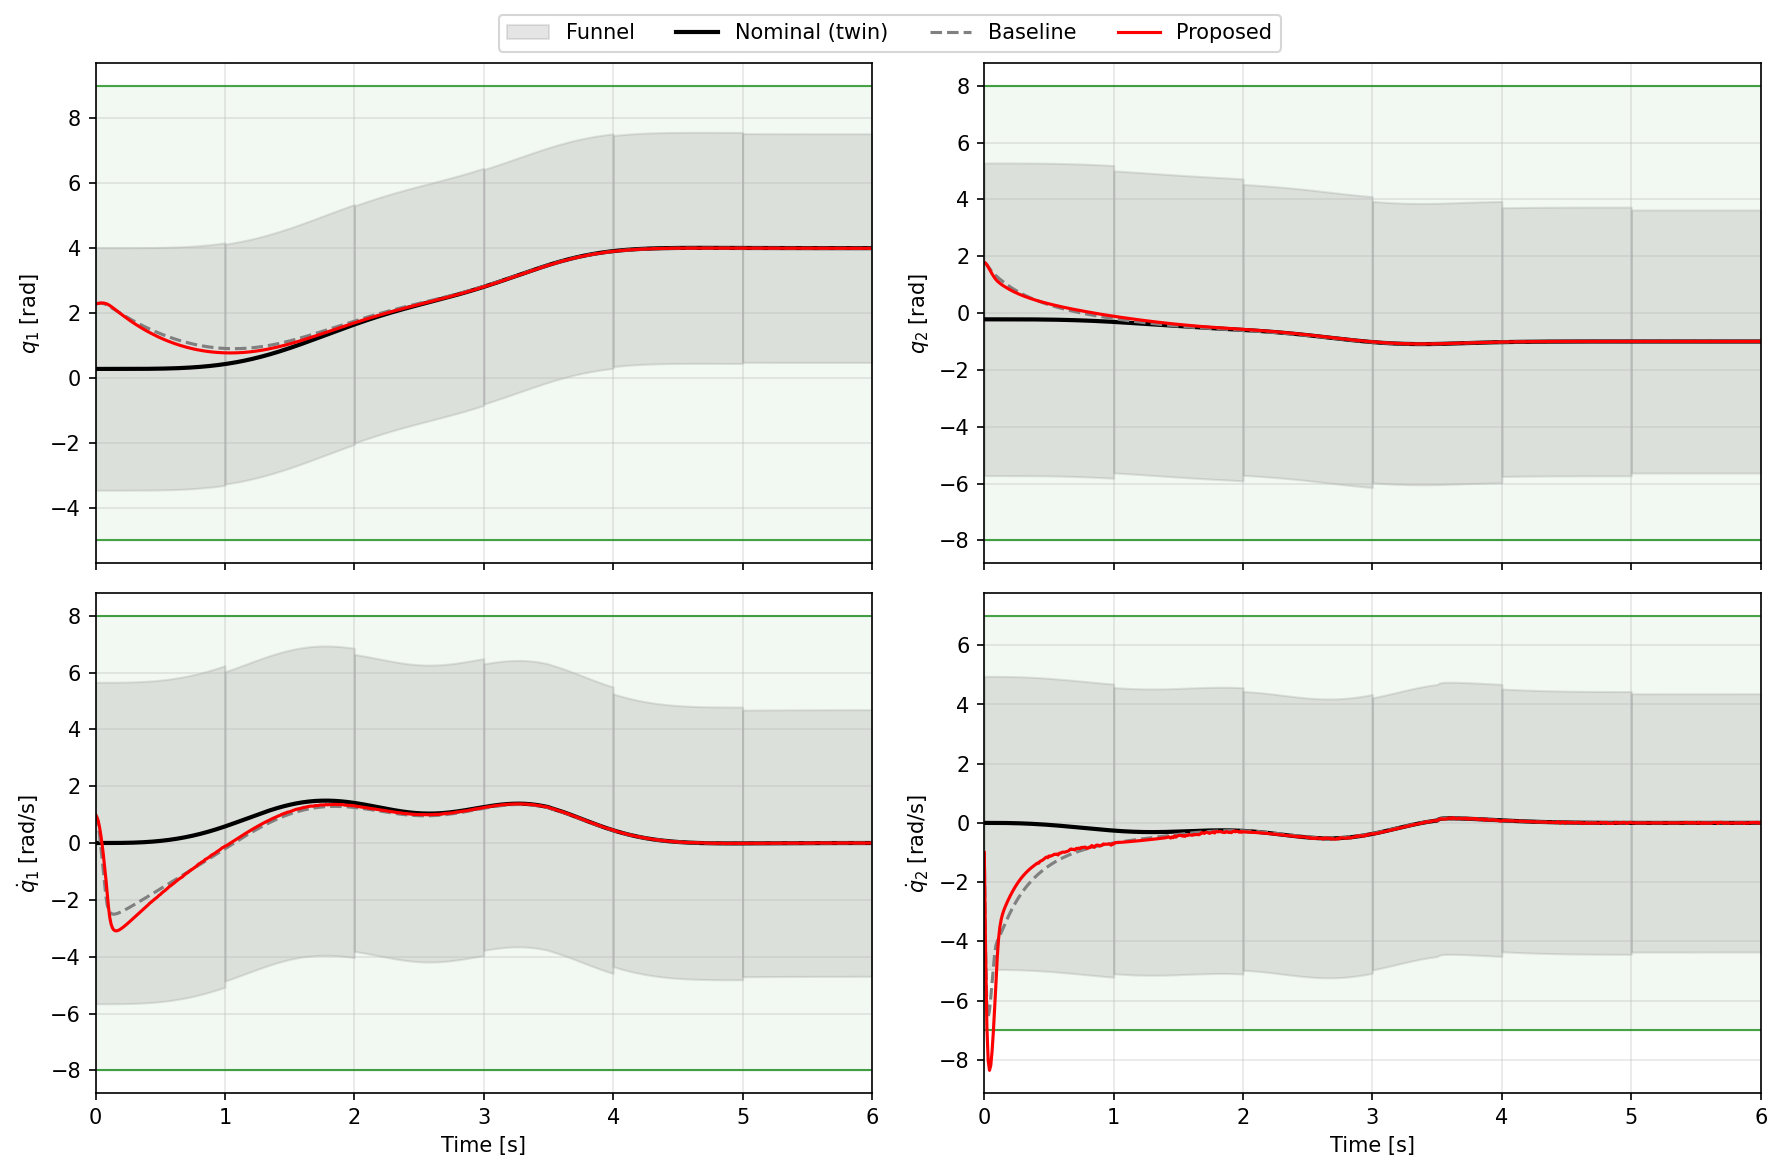
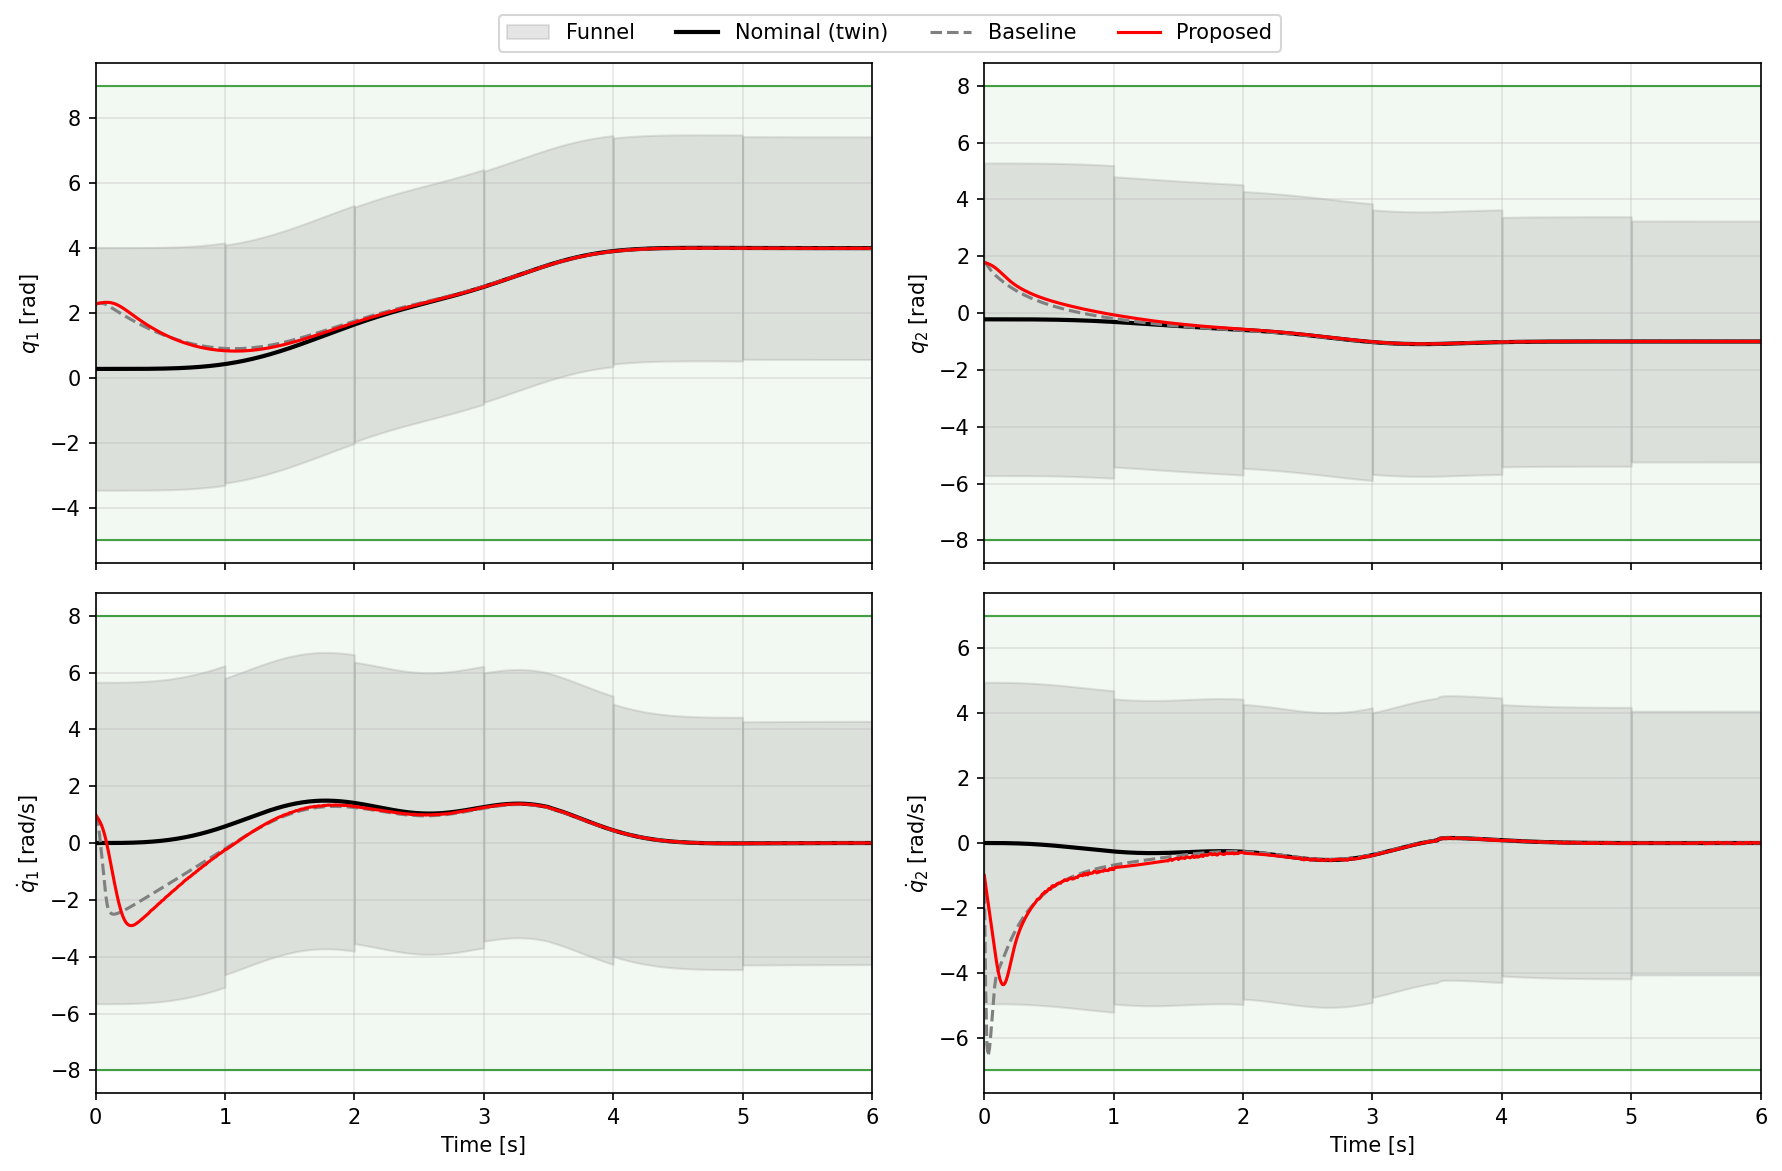
Add gain scheduling to smooth initial transient and prevent constraint violations
Problem: Large initial deviation caused aggressive control (-40 Nm saturation)
that drove dq2 to -8.36, violating the [-7, 7] bounds.

Solution: Implement smooth gain ramping using cosine schedule:
- gain_ramp_steps=30: timesteps to reach full gain
- gain_min_scale=0.15: initial gain fraction (15%)
- Cosine ramp: smooth acceleration/deceleration profile

Results after fix:
- dq2 peaks at -4.36 (within bounds, was -8.36)
- 0 constraint violations (was 5)
- Max ||eta|| reduced from 8.79 to 5.27
- Control ramps smoothly from -14 to -31 Nm (no saturation)

diff --git a/control/segmented_controller.py b/control/segmented_controller.py
@@ -61,6 +61,8 @@ class SegmentedFunnelController:
         C: float = 3.64,
         gamma: float = 0.034,
         L_r: float = 0.074,
+        gain_ramp_steps: int = 30,
+        gain_min_scale: float = 0.15,
     ):
         """
         Initialize segmented controller.
@@ -77,6 +79,8 @@ class SegmentedFunnelController:
             C: Jacobian variation rate
             gamma: Plant-twin mismatch bound
             L_r: Second-order remainder constant
+            gain_ramp_steps: Number of timesteps to ramp up gain (default 30)
+            gain_min_scale: Initial gain scale factor (default 0.15)
         """
         self.twin = twin
         self.x_nom = np.asarray(x_nom)
@@ -96,6 +100,10 @@ class SegmentedFunnelController:
         self.gamma = gamma
         self.L_r = L_r
         self.T_tilde = 2 * T - L - 1
+
+        # Gain scheduling for smooth startup
+        self.gain_ramp_steps = gain_ramp_steps
+        self.gain_min_scale = gain_min_scale
 
         # Segment manager
         self.segment_manager = SegmentManager(T, L, self.n, self.m)
@@ -167,8 +175,17 @@ class SegmentedFunnelController:
         # Store deviation
         self.eta_log[k] = eta_k.copy()
 
-        # Feedback control
-        u_fb = self.K @ eta_k
+        # Apply gain scheduling for smooth startup
+        # Smoothly ramp gain from gain_min_scale to 1.0 over gain_ramp_steps
+        if k < self.gain_ramp_steps:
+            # Smooth cosine ramp: starts slow, accelerates, then slows
+            t = k / self.gain_ramp_steps
+            gain_scale = self.gain_min_scale + (1.0 - self.gain_min_scale) * (1 - np.cos(np.pi * t)) / 2
+        else:
+            gain_scale = 1.0
+
+        # Feedback control with gain scheduling
+        u_fb = gain_scale * (self.K @ eta_k)
 
         # Nominal input
         u_nom_k = self.u_nom[k]
